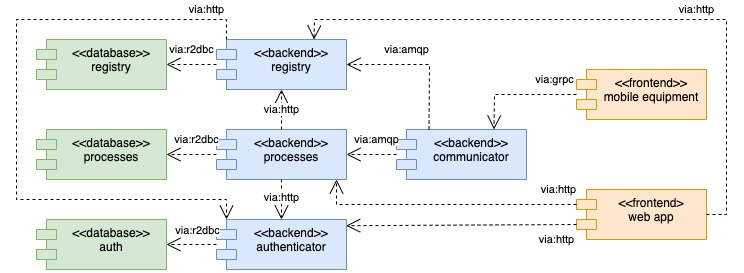
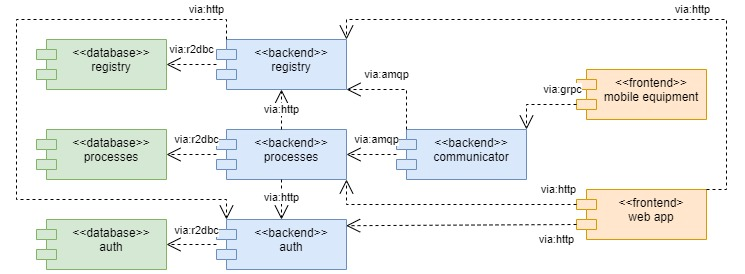
Shorten authenticator to auth

diff --git a/README.md b/README.md
@@ -25,10 +25,10 @@ Open-pit mining system – exercise in software engineering.
 
 |Service|Purpose|Implemented|Dependencies|
 |-|-|-|-|
-|Registry|- Manages equipment and locations|:heavy_check_mark:|- PostgreSQL<br>- RabbitMQ<br>- Authenticator|
-|Processes|- Tracks historical data (e.g., equipment positions)<br>- Supervises business processes (e.g., haul cycles)|:heavy_check_mark:|- PostgreSQL<br>- RabbitMQ<br>- Registry<br>- Authenticator|
+|Auth|- Manages and authenticates users|:heavy_check_mark:|- PostgreSQL|
+|Registry|- Manages equipment and locations|:heavy_check_mark:|- PostgreSQL<br>- RabbitMQ<br>- Auth|
+|Processes|- Tracks historical data (e.g., equipment positions)<br>- Supervises business processes (e.g., haul cycles)|:heavy_check_mark:|- PostgreSQL<br>- RabbitMQ<br>- Registry<br>- Auth|
 |Communicator|- Talks to mobile equipment (e.g., trucks)|:heavy_check_mark:|- RabbitMQ|
-|Authenticator|- Manages and authenticates users|:heavy_check_mark:|- PostgreSQL|
 |Web App|- UI for mine personnel|:x:|- Registry<br>- Processes|
 |Mobile Equipment|- On-board computer software|:x:|- Communicator|
 
@@ -64,18 +64,18 @@ Open-pit mining system – exercise in software engineering.
 ### Commands
 
 - Start infra services: `docker-compose -f docker/docker-compose.yml up -d db adminer rabbitmq`
-- Build backend services: `docker-compose -f docker/docker-compose.yml build registry processes communicator authenticator`
-- Start backend services: `docker-compose -f docker/docker-compose.yml up -d registry processes communicator authenticator`
+- Build backend services: `docker-compose -f docker/docker-compose.yml build auth registry processes communicator`
+- Start backend services: `docker-compose -f docker/docker-compose.yml up -d auth registry processes communicator`
 - Optionally, start ELK Stack: `docker-compose -f docker/docker-compose.yml up -d elasticsearch logstash kibana`
 
 ### Services
 
 |Service|Port|Protocol|
 |-|-|-|
+|Auth|8084|HTTP|
 |Registry|8080|HTTP|
 |Processes|8081|HTTP|
 |Communicator|8082,8083|HTTP,gRPC|
-|Authenticator|8084|HTTP|
 |Adminer|8090|HTTP|
 |PostgreSQL|5432|TCP|
 |RabbitMQ|5672,15672|TCP,HTTP|
